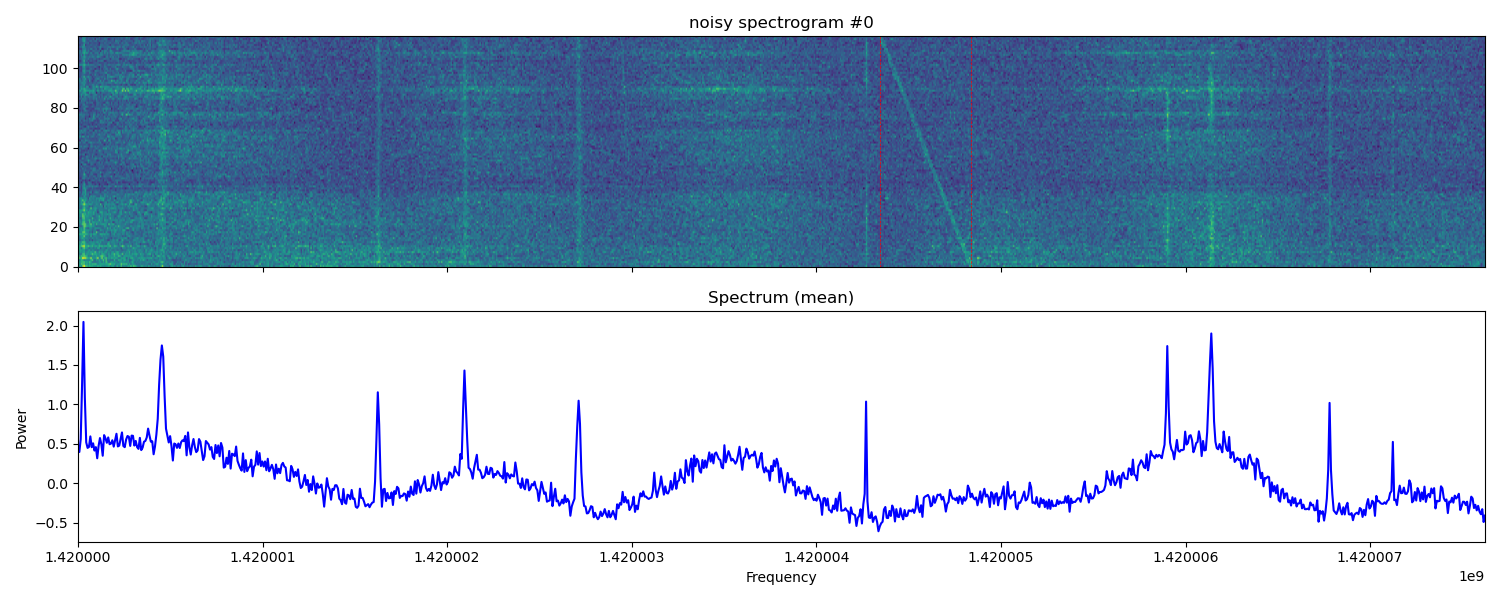
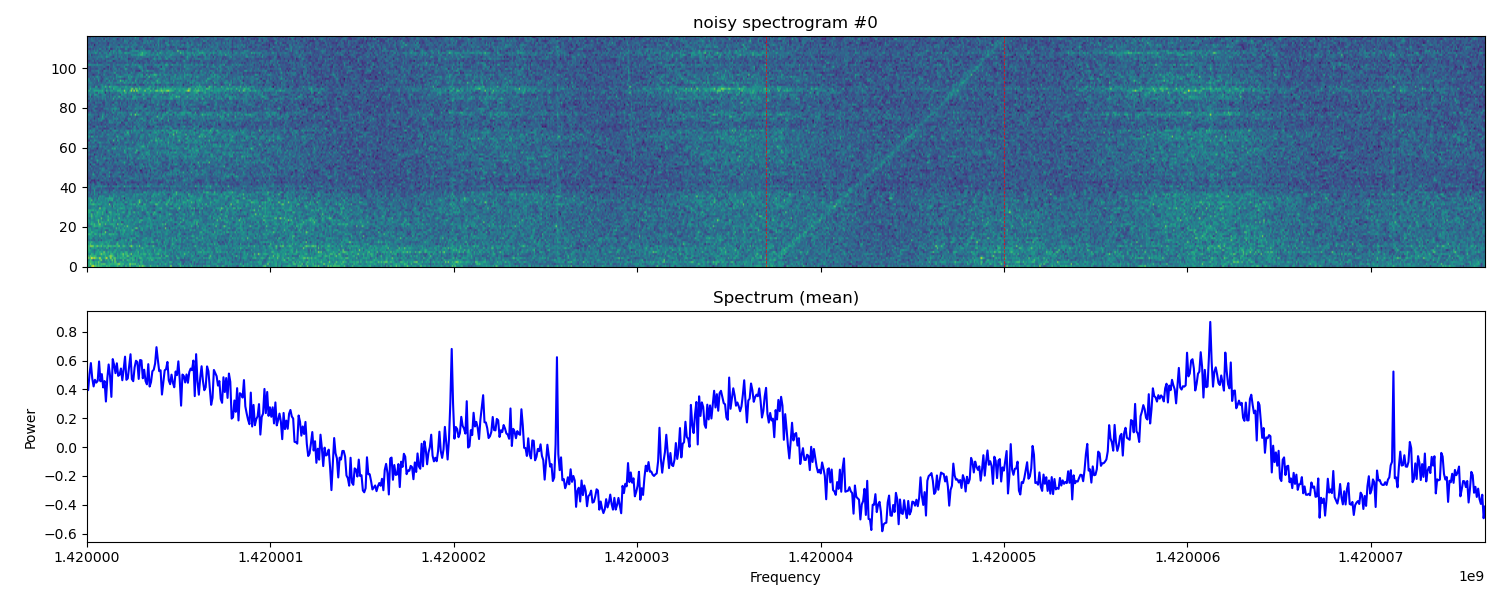
Add support for detection mode in renderer(pipeline ui)

diff --git a/pipeline/renderer.py b/pipeline/renderer.py
@@ -13,11 +13,13 @@ from PyQt5.QtWidgets import (QWidget, QToolTip, QLabel,
 
 from pipeline.metrics import execute_hits_hough
 from pipeline.pipeline_processor import SETIPipelineProcessor
+from utils.det_utils import decode_F, nms_1d, plot_F_lines
 
 
 class SETIWaterfallRenderer(QWidget):
-    def __init__(self, dataset, model, device, log_dir=Path("./pipeline/log"), verbose=False, parent=None,
-                 drift=[0.05, 4.0], snr_threshold=5.0, min_abs_drift=0.05):
+    def __init__(self, dataset, model, device, mode='mask', log_dir=Path("./pipeline/log"),
+                 verbose=False, parent=None, drift=[0.05, 4.0], snr_threshold=5.0,
+                 min_abs_drift=0.05, nms_iou_thresh=0.5, nms_score_thresh=0.5, nms_top_k=10):
         """
         Initialize the SETI waterfall renderer with dataset and model
 
@@ -25,15 +27,32 @@ class SETIWaterfallRenderer(QWidget):
             dataset: SETIDataset instance
             model: Trained DWTNet model
             device: Computation device (e.g., 'cuda' or 'cpu')
+            mode: 'mask' or 'detection' - operating mode
             log_dir: Directory for logs
             verbose: Whether to use simple console output
+            drift: Drift rate range for mask mode [min_drift, max_drift] in Hz/s
+            snr_threshold: SNR threshold for mask mode hits detection
+            min_abs_drift: Minimum absolute drift rate for mask mode
+            nms_iou_thresh: IoU threshold for detection mode NMS
+            nms_score_thresh: Confidence threshold for detection mode NMS
+            nms_top_k: Maximum number of detections to keep per patch
         """
         super().__init__(parent)
+        self.mode = mode
         self.drift = drift
         self.snr_threshold = snr_threshold
         self.min_abs_drift = min_abs_drift
+        self.nms_iou_thresh = nms_iou_thresh
+        self.nms_score_thresh = nms_score_thresh
+        self.nms_top_k = nms_top_k
 
-        self.processor = SETIPipelineProcessor(dataset, model, device, log_dir=log_dir, verbose=verbose)
+        # Initialize processor with mode-specific parameters
+        self.processor = SETIPipelineProcessor(
+            dataset, model, device, mode=mode, log_dir=log_dir, verbose=verbose,
+            drift=drift, snr_threshold=snr_threshold, min_abs_drift=min_abs_drift,
+            nms_iou_thresh=nms_iou_thresh, nms_score_thresh=nms_score_thresh, nms_top_k=nms_top_k
+        )
+
         self.dataset = self.processor.dataset
         self.model = self.processor.model
         self.device = self.processor.device
@@ -132,7 +151,7 @@ class SETIWaterfallRenderer(QWidget):
         info_layout = QVBoxLayout(self.info_panel)
 
         # Title label
-        title = QLabel("SETI Waterfall Processor")
+        title = QLabel(f"SETI Waterfall Processor ({mode} mode)")
         title.setStyleSheet("font-weight: bold; font-size: 16px;")
         info_layout.addWidget(title)
 
@@ -152,8 +171,11 @@ class SETIWaterfallRenderer(QWidget):
         stats_layout.addWidget(self.detections_label)
         info_layout.addLayout(stats_layout)
 
-        # Confidence threshold slider info
-        self.confidence_label = QLabel("Detection Threshold: >0.8 or <0.2")
+        # Confidence threshold info
+        if self.mode == 'mask':
+            self.confidence_label = QLabel("Detection Threshold: >0.8 or <0.2")
+        else:
+            self.confidence_label = QLabel(f"Detection Threshold: >{nms_score_thresh}")
         info_layout.addWidget(self.confidence_label)
 
         # Control buttons
@@ -281,6 +303,39 @@ class SETIWaterfallRenderer(QWidget):
         self.processed_label.setText(f"Processed: {processed}")
         self.detections_label.setText(f"Detections: {detections}")
 
+    def _process_detection_predictions(self, raw_preds, freq_range):
+        """
+        Process detection mode predictions to extract frequency intervals
+
+        Args:
+            raw_preds: Raw detection predictions from model
+            freq_range: Frequency range tuple (min_freq, max_freq) in MHz
+
+        Returns:
+            pred_boxes_tuple: Tuple (N, f_starts, f_stops) for plotting
+        """
+        # Decode predictions
+        det_outs = [decode_F(raw) for raw in raw_preds]  # List of (B, N_i, 3)
+        det_out = torch.cat(det_outs, dim=1)  # (B, total_N, 3)
+
+        # Apply NMS
+        pred_boxes_list = nms_1d(det_out,
+                                 iou_thresh=self.nms_iou_thresh,
+                                 score_thresh=self.nms_score_thresh,
+                                 top_k=self.nms_top_k)
+
+        # Process detections for the first batch item (assuming B=1)
+        pred_boxes = pred_boxes_list[0]  # (M, 3) - [f_start, f_stop, confidence]
+
+        if len(pred_boxes) == 0:
+            return (0, [], [])
+
+        # Extract start and stop frequencies (normalized)
+        f_starts = pred_boxes[:, 0].cpu().numpy()
+        f_stops = pred_boxes[:, 1].cpu().numpy()
+
+        return (len(pred_boxes), f_starts, f_stops)
+
     def show_cell_detail(self, row, col):
         """
         Display detailed information for a cell, including:
@@ -295,8 +350,15 @@ class SETIWaterfallRenderer(QWidget):
         tchans = time_range_idx[1] - time_range_idx[0]
 
         patch_data = patch_data.to(self.device).unsqueeze(0)  # (1, 1, t, f)
+
         with torch.no_grad():
-            denoised, mask, logits = self.model(patch_data)
+            if self.mode == 'mask':
+                denoised, mask, logits = self.model(patch_data)
+                raw_preds = None
+            else:  # detection mode
+                denoised, raw_preds = self.model(patch_data)
+                logits = torch.tensor([0.0], device=self.device)  # Default logits
+
             denoised_np = denoised.squeeze().cpu().numpy()
         patch_np = patch_data.squeeze().cpu().numpy()
 
@@ -328,10 +390,11 @@ class SETIWaterfallRenderer(QWidget):
         cbar1 = fig.colorbar(im1, ax=axs[1], fraction=0.046, pad=0.04)
         cbar1.set_label("Intensity", fontsize=label_font)
 
-        # Load hits info and draw detected signal lines
-        patch_np_for_hits = patch_np  # (t, f)
-        df_hits = self.load_additional_info(row, col, denoised_np)
-        if not df_hits.empty:
+        # Load hits info and draw detected signals
+        df_hits = self.load_additional_info(row, col, denoised_np, raw_preds)
+
+        if self.mode == 'mask' and not df_hits.empty:
+            # Mask mode: draw Hough transform lines
             for i, (_, hit) in enumerate(df_hits.iterrows()):
                 drift_rate = hit['DriftRate']
                 uncorr_freq = hit['Uncorrected_Frequency']
@@ -339,7 +402,17 @@ class SETIWaterfallRenderer(QWidget):
                 f_abs_Hz = uncorr_freq + drift_rate * t_vals  # Hz
                 f_abs_MHz = freq_min - f_abs_Hz * 1e-6  # MHz
                 axs[1].plot(f_abs_MHz, t_vals, 'g--', label='Fit' if i == 0 else None, alpha=0.8)
-            axs[1].legend()
+            if not df_hits.empty:
+                axs[1].legend()
+
+        elif self.mode == 'detection' and raw_preds is not None:
+            # Detection mode: draw frequency interval boundaries
+            pred_boxes_tuple = self._process_detection_predictions(raw_preds, freq_range)
+            if pred_boxes_tuple[0] > 0:
+                # Create frequency array for plotting
+                freqs = np.linspace(freq_min, freq_max, 1000)
+                plot_F_lines(axs[1], freqs, pred_boxes_tuple, normalized=True,
+                             color='red', linestyle='-', linewidth=1.5)
 
         # Convert frequencies to absolute MHz for display
         if not df_hits.empty:
@@ -374,46 +447,64 @@ class SETIWaterfallRenderer(QWidget):
             self.hits_table.setColumnCount(0)
         else:
             self.hits_table.setRowCount(len(df_hits))
-            self.hits_table.setColumnCount(len(df_hits.columns))
-            self.hits_table.setHorizontalHeaderLabels(df_hits.columns)
+
+            # Determine columns based on mode
+            if self.mode == 'mask':
+                columns = ['DriftRate', 'SNR', 'Uncorrected_Frequency', 'freq_start', 'freq_end']
+            else:
+                columns = ['DriftRate', 'confidence', 'Uncorrected_Frequency', 'freq_start', 'freq_end']
+
+            # Filter columns to only include those present in the DataFrame
+            available_columns = [col for col in columns if col in df_hits.columns]
+            self.hits_table.setColumnCount(len(available_columns))
+            self.hits_table.setHorizontalHeaderLabels(available_columns)
+
             for i in range(len(df_hits)):
-                for j, col in enumerate(df_hits.columns):
-                    value = df_hits.iloc[i, j]
+                for j, col in enumerate(available_columns):
+                    value = df_hits.iloc[i][col]
                     if col in ['Uncorrected_Frequency', 'freq_start', 'freq_end']:
                         formatted_value = f"{value:.6f}"  # 6 decimal places for frequencies
+                    elif col in ['DriftRate', 'SNR', 'confidence']:
+                        formatted_value = f"{value:.4f}"  # 4 decimal places for numerical values
                     else:
-                        formatted_value = f"{value:.2f}" if isinstance(value, (int, float)) else str(value)
+                        formatted_value = str(value)
                     self.hits_table.setItem(i, j, QTableWidgetItem(formatted_value))
             self.hits_table.resizeColumnsToContents()
 
-    def load_additional_info(self, row, col, denoised_np):
+    def load_additional_info(self, row, col, denoised_np, raw_preds=None):
         """
-        Load additional information about the cell using metrics.py
+        Load additional information about the cell
 
         Args:
             row (int): Row index
             col (int): Column index
             denoised_np (np.ndarray): Denoised patch data
+            raw_preds: Raw predictions for detection mode
 
         Returns:
-            str: Formatted hits information
+            DataFrame: Hits information
         """
-        # Execute hits detection on denoised data
-        df_hits = execute_hits_hough(
-            patch=denoised_np,
-            tsamp=self.tsamp,
-            foff=self.foff,
-            max_drift=self.drift[1],
-            min_drift=self.drift[0],
-            snr_threshold=self.snr_threshold,
-            min_abs_drift=self.min_abs_drift,
-            merge_tol=10000
-        )
+        if self.mode == 'mask':
+            # Execute hits detection on denoised data using Hough transform
+            df_hits = execute_hits_hough(
+                patch=denoised_np,
+                tsamp=self.tsamp,
+                foff=self.foff,
+                max_drift=self.drift[1],
+                min_drift=self.drift[0],
+                snr_threshold=self.snr_threshold,
+                min_abs_drift=self.min_abs_drift,
+                merge_tol=10000
+            )
+        else:  # detection mode
+            # Process detection predictions to generate hits
+            freq_range = self.freq_ranges[row][col]
+            time_range = self.time_ranges[row][col]
+            time_duration = time_range[1] - time_range[0]
 
-        if df_hits.empty:
-            return df_hits
-        else:
-            return df_hits
+            df_hits = self.processor._process_detection_hits(raw_preds, freq_range, time_range)
+
+        return df_hits
 
 
 class GridContent(QWidget):
@@ -462,9 +553,15 @@ class GridContent(QWidget):
                             else:
                                 color = UNPROCESSED
                         elif status:
-                            color = DETECTED_HIGH_CONF if confidence > 0.8 else UNCERTAIN
+                            if self.renderer.mode == 'mask':
+                                color = DETECTED_HIGH_CONF if confidence > 0.8 else UNCERTAIN
+                            else:  # detection mode
+                                color = DETECTED_HIGH_CONF if confidence > self.renderer.nms_score_thresh else UNCERTAIN
                         else:
-                            color = NO_SIGNAL_HIGH_CONF if confidence < 0.2 else UNCERTAIN
+                            if self.renderer.mode == 'mask':
+                                color = NO_SIGNAL_HIGH_CONF if confidence < 0.8 else UNCERTAIN
+                            else:  # detection mode
+                                color = NO_SIGNAL_HIGH_CONF if confidence <= self.renderer.nms_score_thresh else UNCERTAIN
 
                         # Fill cell with appropriate color
                         painter.fillRect(rect_x, rect_y, self.renderer.cell_size, self.renderer.cell_size, color)
@@ -499,9 +596,15 @@ class GridContent(QWidget):
                             else:
                                 color = UNPROCESSED
                         elif status:
-                            color = DETECTED_HIGH_CONF if confidence > 0.8 else UNCERTAIN
+                            if self.renderer.mode == 'mask':
+                                color = DETECTED_HIGH_CONF if confidence > 0.8 else UNCERTAIN
+                            else:  # detection mode
+                                color = DETECTED_HIGH_CONF if confidence > self.renderer.nms_score_thresh else UNCERTAIN
                         else:
-                            color = NO_SIGNAL_HIGH_CONF if confidence < 0.2 else UNCERTAIN
+                            if self.renderer.mode == 'mask':
+                                color = NO_SIGNAL_HIGH_CONF if confidence < 0.2 else UNCERTAIN
+                            else:  # detection mode
+                                color = NO_SIGNAL_HIGH_CONF if confidence <= self.renderer.nms_score_thresh else UNCERTAIN
 
                         painter.fillRect(rect_x, rect_y, self.renderer.cell_size, self.renderer.cell_size,
                                          color)
@@ -534,7 +637,8 @@ class GridContent(QWidget):
             tooltip = (f"Cell ({r}, {c})\n"
                        f"Status: {status_str}\n"
                        f"Frequency: {freq_min:.4f} - {freq_max:.4f} MHz\n"
-                       f"Time: {time_start:.2f} - {time_end:.2f} seconds")
+                       f"Time: {time_start:.2f} - {time_end:.2f} seconds\n"
+                       f"Mode: {self.renderer.mode}")
 
             QToolTip.showText(event.globalPos(), tooltip)
 

diff --git a/pred.py b/pred.py
@@ -42,8 +42,9 @@ noise_std_max = 0.05
 noise_mean_min = 2
 noise_mean_max = 3
 nosie_type = "chi2"
-use_fil = False
-background_fil = ""
+use_fil = True
+background_fil = ['./data/33exoplanets/Kepler-438_M01_pol2_f1120.00-1150.00.fil',
+                  './data/33exoplanets/HD-180617_M04_pol1_f1400.00-1410.00.fil']
 
 # Observation data
 # obs_file_path = "./data/BLIS692NS/BLIS692NS_data/spliced_blc00010203040506o7o0111213141516o7o0212223242526o7o031323334353637_guppi_58060_26569_HIP17147_0021.gpuspec.0002.fil"
@@ -57,13 +58,14 @@ num_workers = 0
 pred_dir = "./pred_results"
 pred_steps = 10
 dwtnet_ckpt = Path("./checkpoints/dwtnet") / "best_model.pth"
+# dwtnet_ckpt = Path("./archived/weights/20250924_33e_det.pth")
 unet_ckpt = Path("./checkpoints/unet") / "best_model.pth"
 P = 2
 
 # NMS config
-iou_thresh = 0.8
+iou_thresh = 0.75
 score_thresh = 0.99
-top_k = None
+top_k = 10
 
 # hits conf info
 drift = [-4.0, 4.0]
@@ -195,7 +197,7 @@ def main(mode=None, ui=False, obs=False, verbose=False, device=None, *args):
                         app.exec_()
                 else:
                     print("[\033[32mInfo\033[0m] Running in no-UI mode, logging only")
-                    processor = SETIPipelineProcessor(dataset, model, device, log_dir=f.stem, drift=drift,
+                    processor = SETIPipelineProcessor(dataset, model, device, mode=pmode, log_dir=f.stem, drift=drift,
                                                       snr_threshold=snr_threshold, min_abs_drift=drift_min_abs,
                                                       verbose=verbose, nms_iou_thresh=iou_thresh,
                                                       nms_score_thresh=score_thresh, nms_top_k=top_k)
@@ -216,7 +218,7 @@ def main(mode=None, ui=False, obs=False, verbose=False, device=None, *args):
                 sys.exit(app.exec_())
             else:
                 print("[\033[32mInfo\033[0m] Running in no-UI mode, logging only")
-                processor = SETIPipelineProcessor(dataset, model, device, log_dir=file_stem, drift=drift,
+                processor = SETIPipelineProcessor(dataset, model, device, mode=pmode, log_dir=file_stem, drift=drift,
                                                   snr_threshold=snr_threshold, min_abs_drift=drift_min_abs,
                                                   verbose=verbose, nms_iou_thresh=iou_thresh,
                                                   nms_score_thresh=score_thresh, nms_top_k=top_k)

diff --git a/utils/det_utils.py b/utils/det_utils.py
@@ -44,7 +44,7 @@ def decode_F(raw: torch.Tensor, mode='soft', temp: float = 0.5) -> torch.Tensor:
     f_stop = f_stop.view(B, Ncells)
     conf = conf.view(B, Ncells)
 
-    det_out = torch.stack([f_start, f_stop, conf], dim=2)  # (B, N, 3)
+    det_out = torch.stack([f_start, f_stop, torch.sigmoid(conf)], dim=2)  # (B, N, 3)
     return det_out
 
 
